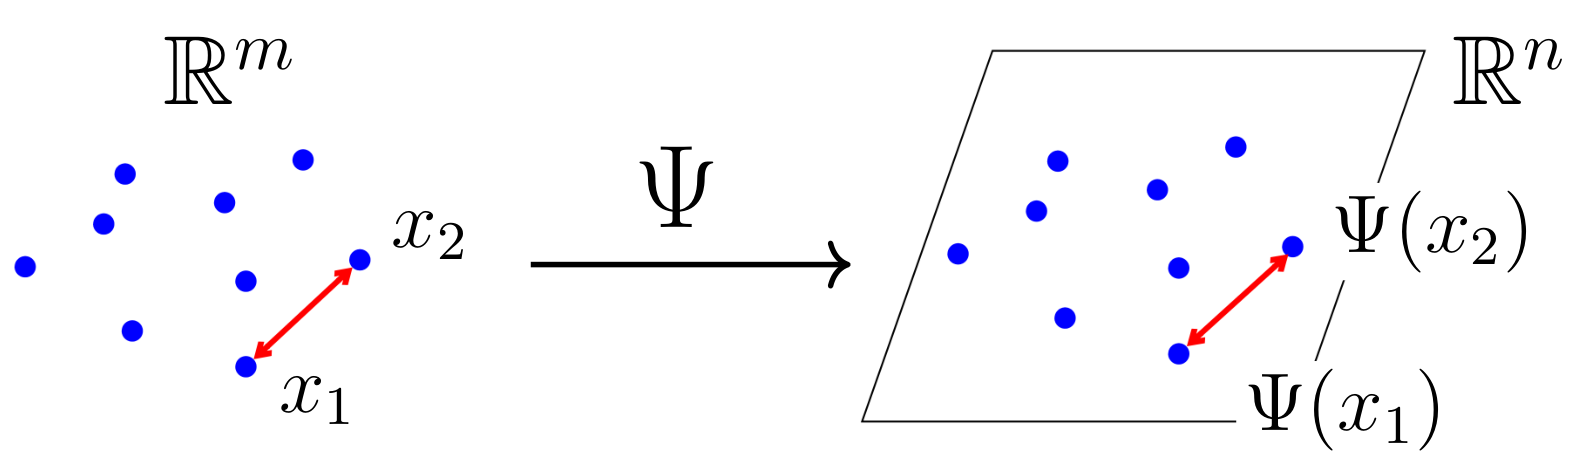
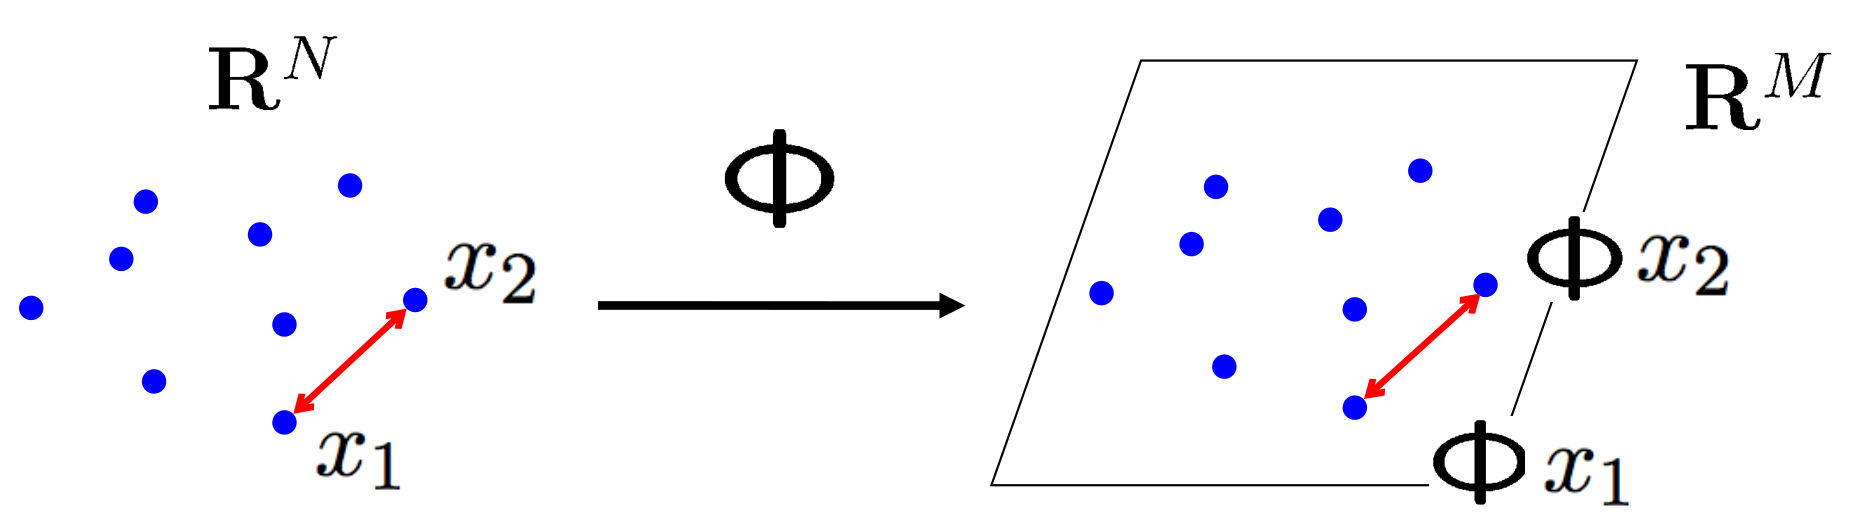
Modification of isometry image

diff --git a/README.md b/README.md
@@ -16,7 +16,7 @@
 Isometry is defined mathematically as a distance-preserving transformation between two metric spaces. A simplified [illustration](https://slideplayer.com/slide/4659099/) of isometry in higher dimensional functional spaces can be seen below. In this research, we view Neural Machine Translation (NMT) models from the perspective of semantic isometry and assume that well-performing NMT models function approximately isometrically on semantic metric spaces. That is to say, if two sentences are semantically equivalent on the source side, they should remain semantically equivalent after translation on the target side given a well-performing NMT model. We hypothesize that the frequency of such semantically isometric behaviour correlates positively with general model performance. 
 
 <p align="center">
-<img src="./img/isometry_visualized.png" width="400">
+<img src="./img/isometry_visualized_modified.png" width="400">
 </p>
 
 We conduct our investigation by using two NMT models of varying performance to translate semantically-equivalent German paraphrases, based off diverse WMT19 test data [references](https://github.com/google/wmt19-paraphrased-references), to English. We use Facebook's FAIR WMT19 winning single model from [Ng. et al. (2019)](https://arxiv.org/abs/1907.06616) as our SOTA model. We train a large transformer model based on the Scaling NMT methodology from [Ott et al. (2018)](https://arxiv.org/abs/1806.00187) on WMT16 data and utilize this model as our non-SOTA model.
